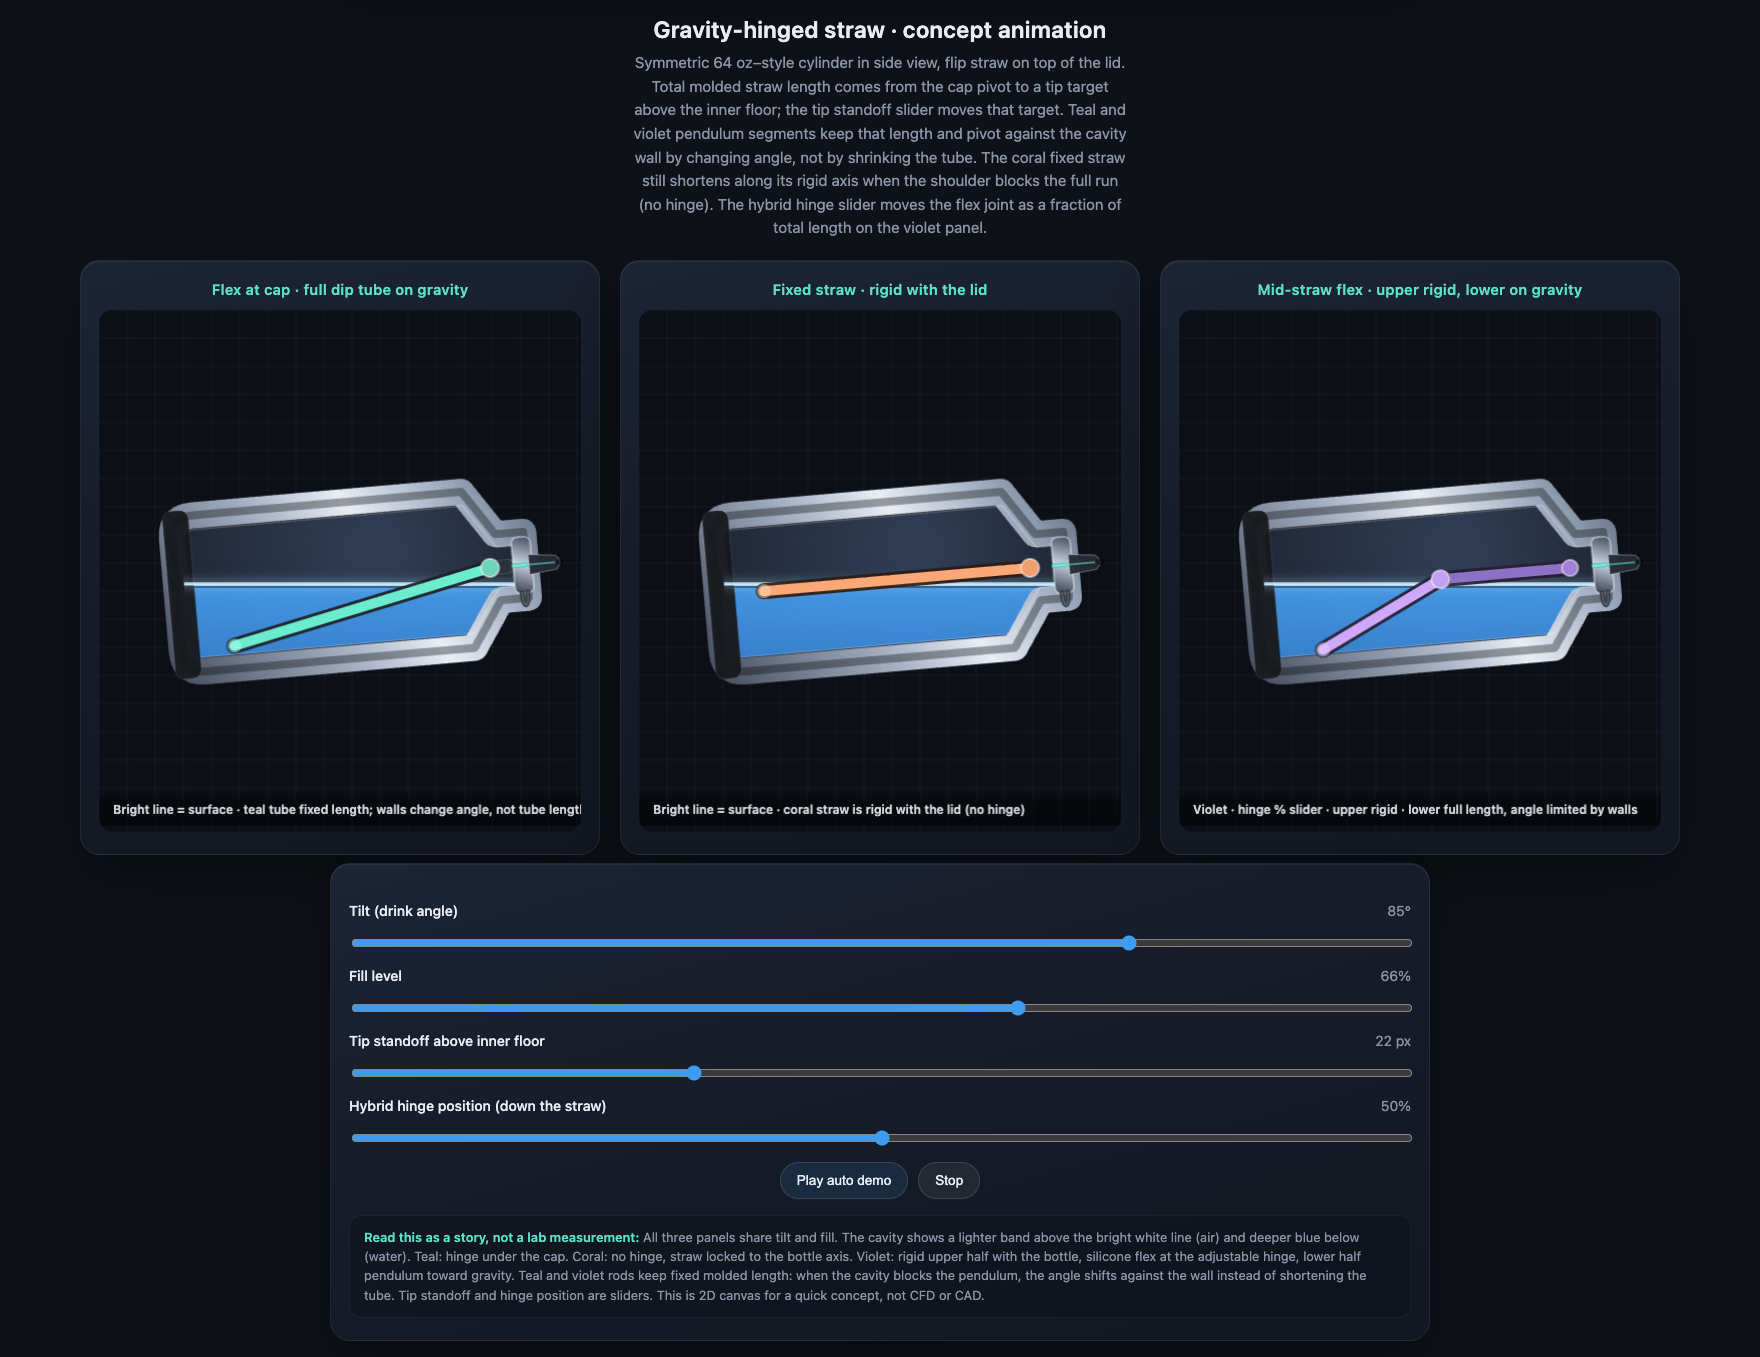
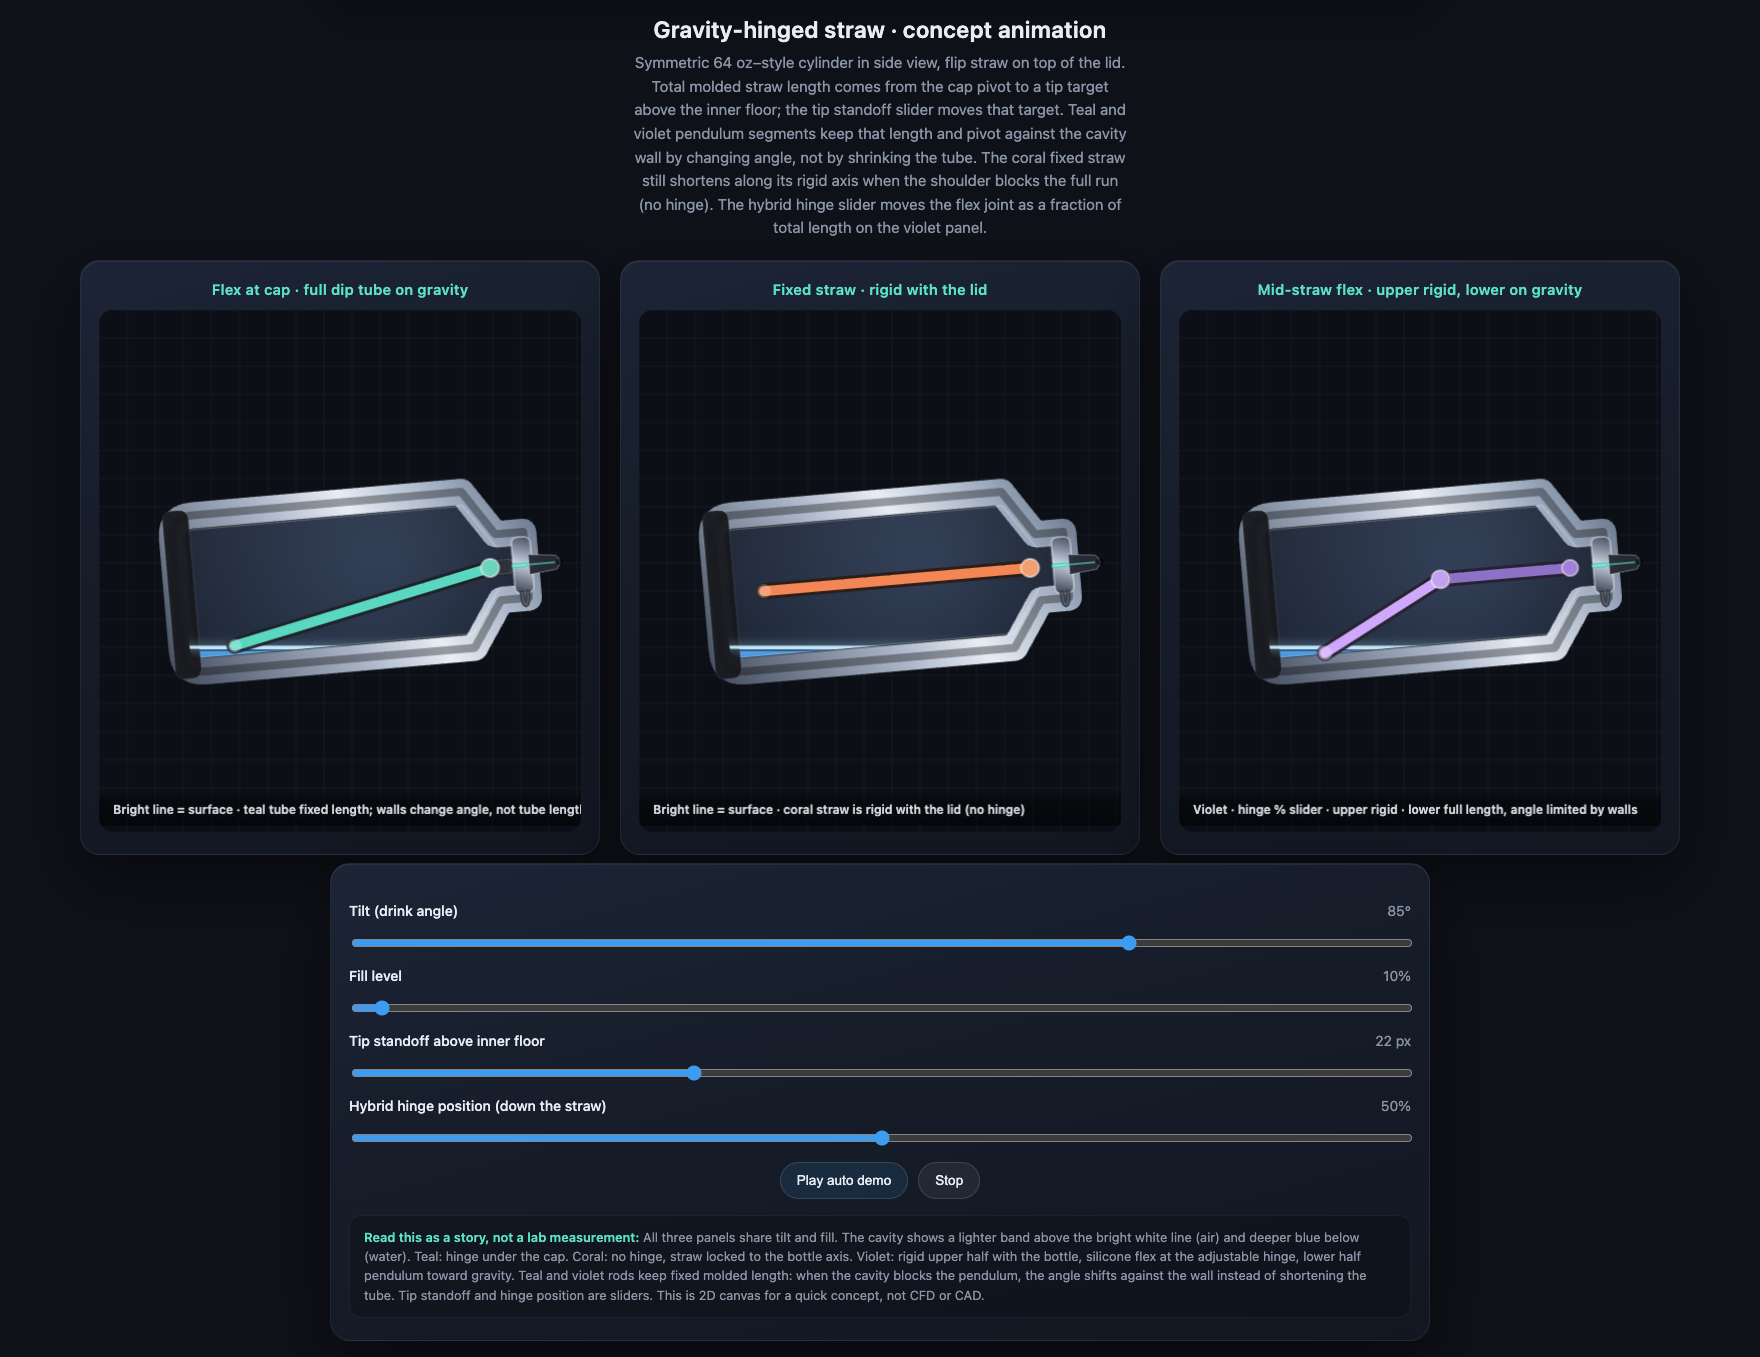
figures: 85° tilt with 10% fill for shallow-pool reach contrast

Changed region(s): [[0.4062, 0.4024, 0.5938, 0.4952], [0.7188, 0.4024, 0.9062, 0.4952], [0.0938, 0.4024, 0.2812, 0.4952]]

diff --git a/README.md b/README.md
@@ -13,7 +13,7 @@ Published on Pubroot after peer review:
 - **Article:** [pubroot.com/2026-008/article/](https://pubroot.com/2026-008/article/)
 - **Submission issue (history):** [pubroot-website#8](https://github.com/buildngrowsv/pubroot-website/issues/8)
 
-A **three-panel screenshot** from the interactive demo is in `figures/straw-demo-three-panel-bottles.png` (same asset as on the article page). It is captured at **85° drink tilt** via `SixtyFourOunceFlexibleJointStrawBottleConceptAnimation.html?tilt=85&fill=66` (sliders visible in-frame) so pendulum straws clearly reach the pool while the lid-rigid straw does not. To iterate angles locally, use Playwright and the clip script in `pubroot-website` `_cli/capture_straw_compare_screenshot_for_publication.mjs`.
+A **three-panel screenshot** from the interactive demo is in `figures/straw-demo-three-panel-bottles.png` (same asset as on the article page). It is captured at **85° drink tilt** and **10% fill** via `SixtyFourOunceFlexibleJointStrawBottleConceptAnimation.html?tilt=85&fill=10` (sliders visible in-frame) so a **small liquid pool** makes the reach problem obvious: pendulum straws hunt the corner puddle while the lid-rigid straw misses. To iterate angles or fill locally, use Playwright and the clip script in `pubroot-website` `_cli/capture_straw_compare_screenshot_for_publication.mjs`.
 
 ## Repository
 
